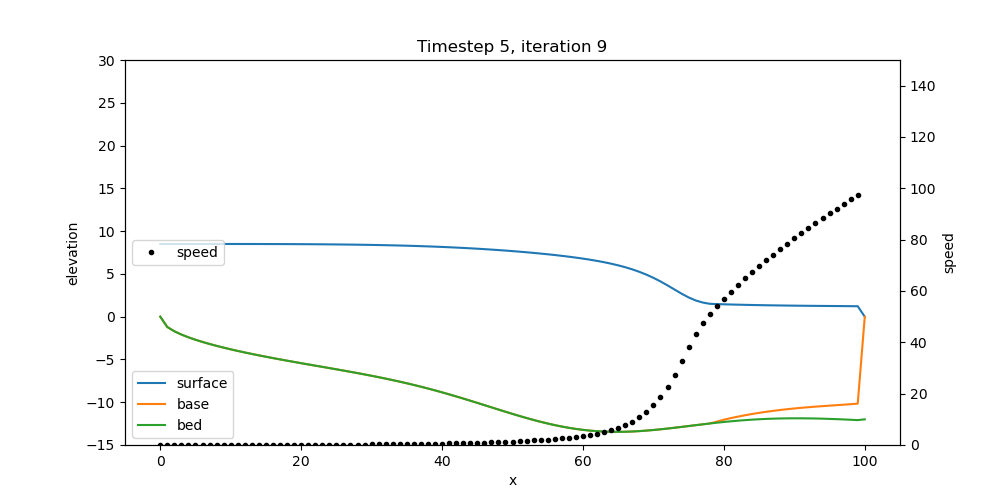
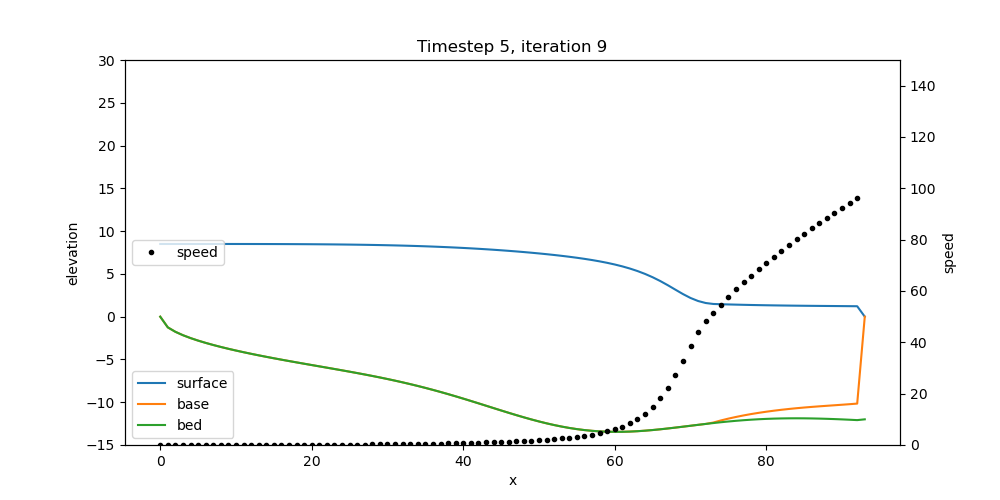
ditch commit

diff --git a/scratch_test/expt/sparse_implcit_coupled_test.py b/scratch_test/expt/sparse_implcit_coupled_test.py
@@ -31,7 +31,7 @@ import numpy as np
 import matplotlib.pyplot as plt
 import matplotlib.cm as cm
 
-np.set_printoptions(precision=1, suppress=False, linewidth=np.inf)
+np.set_printoptions(precision=1, suppress=False, linewidth=np.inf, threshold=np.inf)
 #formatter = {'float_kind': lambda x: f'{x:.2g}'}
 #np.set_printoptions(formatter=formatter, linewidth=np.inf)
 
@@ -290,9 +290,6 @@ def make_solver(u_trial, h_trial, dt, num_iterations, num_timesteps, intermediat
 
         vto = make_vto(mu)
 
-        #print(np.array(vto(u_trial, h_trial)))
-        #print(np.array(vto(u_trial, h_trial)).shape)
-
         #advo = make_advo_first_order_upwind(dt) #more stable under larger dt
         advo = make_advo_linear_differencing(dt) #more stable under larger dx
 
@@ -467,7 +464,7 @@ def sparse_linear_solve(values, coordinates, jac_shape, b, x0, mode="jax-native"
     return x, residual
 
 
-def make_solver_sparse_jvp(u_trial, h_trial, dt, num_iterations, num_timesteps, intermediates=False):
+def make_solver_sparse_jvp(u_trial, h_trial, dt, num_iterations, num_timesteps):
 
     def newton_solve(mu):
         hus = []
@@ -485,7 +482,8 @@ def make_solver_sparse_jvp(u_trial, h_trial, dt, num_iterations, num_timesteps, 
 
        
         #it seems like maybe jax vjp can't handle just single arguments, so
-        #we might have to aggregate teh stencils by operator (if ykwim..?)
+        #we might have to aggregate teh stencils (basis vectors) by operator
+        #(if ykwim..)
     
         bvs_vt, i_cs_dvt_du, j_cs_dvt_du = basis_vectors_etc(n, 1)
         _, i_cs_dvt_dh, j_cs_dvt_dh = basis_vectors_etc_nonsquare(n, n+1, 1)
@@ -497,7 +495,7 @@ def make_solver_sparse_jvp(u_trial, h_trial, dt, num_iterations, num_timesteps, 
 
         #The way that the basis vectors are found means that the case_ has to be the
         #same for the two versions for the advection equation for things to work
-        #even though, of course, the stencil for adv/u is different to that of adv/h.
+        #even though, of course, the best stencil for adv/u is different to that of adv/h.
 
 
         #bvs_gh, i_cs_gh, j_cs_gh = basis_vectors_etc(n+1, 5)
@@ -514,58 +512,38 @@ def make_solver_sparse_jvp(u_trial, h_trial, dt, num_iterations, num_timesteps, 
         is_dadv_dh = i_cs_dadv_dh.copy() + n
         js_dadv_dh = j_cs_dadv_dh.copy() + n
 
-        #print(is_dvt_du.shape)
-        #print(js_dvt_du.shape)
-        #print(is_dvt_dh.shape)
-        #print(js_dvt_dh.shape)
-        #print(is_dadv_du.shape)
-        #print(js_dadv_du.shape)
-        #print(is_dadv_dh.shape)
-        #print(js_dadv_dh.shape)
-        #raise
-
         for j in range(num_timesteps):
             print(j)
             for i in range(num_iterations):
                 
-                #TODO: work out wtf is going on here and everywhere...
-
+                #apply function taking operator and primals and evaluating the vjps associated
+                #with the basis vectors worked out above, corresponding to different stencils
+                #and shapes of operator matrix.
                 dvt_du_values, dvt_dh_values = sparse_jacrev_vt(vto, (u, h))
                 dadv_du_values, dadv_dh_values, dadv_dhold_values = sparse_jacrev_adv(advo, (u, h, h_old))
 
-                #print(dvt_du_values.shape)
-                #print(dvt_dh_values.shape)
-                #print(dadv_du_values.shape)
-                #print(dadv_dh_values.shape)
-                #print(dadv_dhold_values.shape)
-                #raise
 
+                #assemble large matrix in coo form.
                 all_values = jnp.concatenate((dvt_du_values, dvt_dh_values, dadv_du_values, dadv_dh_values))
                 all_is = jnp.concatenate((is_dvt_du, is_dvt_dh, is_dadv_du, is_dadv_dh))
                 all_js = jnp.concatenate((js_dvt_du, js_dvt_dh, js_dadv_du, js_dadv_dh))
                 all_coords = jnp.column_stack((all_is, all_js))
 
-                #print(all_values.shape)
-                #print(all_coords.shape)
+                #righ-hand side of the linear system
+                rhs = jnp.concatenate((-vto(u, h), -advo(u, h, h_old)))
+
+                ##For debugging:
+                dense_jac = scipy.sparse.coo_matrix((all_values, (all_coords[:,0], all_coords[:,1])), shape=(2*n + 1, 2*n + 1)).todense()
+                #print(dense_jac)
                 #raise
 
-                rhs = jnp.concatenate((-vto(u, h), -advo(u, h, h_old)))
-                #print(rhs)
-
-                #dvar = solve_petsc_sparse(all_values, all_coords, (2*n + 1, 2*n + 1), rhs)
-                dense_jac = scipy.sparse.coo_matrix((all_values, (all_coords[:,0], all_coords[:,1])), shape=(2*n + 1, 2*n + 1)).todense()
-
-                dvar = sparse_linear_solve(all_values, all_coords, (2*n + 1, 2*n + 1), rhs, jnp.zeros(2*n+1), mode="jax-native")[0]
-                print(dvar)
+                dvar = solve_petsc_sparse(all_values, all_coords, (2*n + 1, 2*n + 1), rhs)
+                #dvar = sparse_linear_solve(all_values, all_coords, (2*n + 1, 2*n + 1), rhs, jnp.zeros(2*n+1), mode="jax-native")[0]
+                #print(dvar)
 
                 u = u.at[:].set(u+dvar[:n])
                 h = h.at[:].set(h+dvar[n:])
 
-
-                # plt.plot(dvar[:n])
-                # plt.show()
-                # plt.plot(dvar[n:])
-                # plt.show()
 
 
             hus.append([h, u])
@@ -573,10 +551,6 @@ def make_solver_sparse_jvp(u_trial, h_trial, dt, num_iterations, num_timesteps, 
             plotboth(h, u, title="Timestep {}, iteration {}".format(j+1, i),\
                     savepath="../misc/full_implicit_tests/{}_{}.png".format(j+1,i),\
                     axis_limits = [[-15, 30],[0, 150]], show_plots=False)
-
-            # plotboth(h, u, title="Timestep {}, iteration {}".format(j+1, i),\
-            #          savepath=None,\
-            #          axis_limits = [[-15, 30],[0, 150]], show_plots=True)
 
             h_old = h.copy()
 
@@ -600,7 +574,7 @@ def make_solver_sparse_jvp(u_trial, h_trial, dt, num_iterations, num_timesteps, 
 
 
 lx = 1
-n = 100
+n = 93
 dx = lx/n
 x = jnp.linspace(0,lx,n)
 
@@ -707,7 +681,7 @@ h_trial = h.copy()
 #newton_solve = make_solver(u_trial, h_trial, 2e-4, 10, 20, intermediates=False)
 ##newton_solve = make_solver(u_trial, h_trial, 2e-3, 10, 20, intermediates=False)
 
-newton_solve = make_solver_sparse_jvp(u_trial, h_trial, 2e-4, 10, 20, intermediates=False)
+newton_solve = make_solver_sparse_jvp(u_trial, h_trial, 2e-4, 10, 20)
 
 
 

diff --git a/scratch_test/expt/implicit_coupled_test.py b/scratch_test/expt/implicit_coupled_test.py
@@ -365,7 +365,7 @@ def make_solver(u_trial, h_trial, dt, num_iterations, num_timesteps, intermediat
 
 
 lx = 1
-n = 10
+n = 8
 dx = lx/n
 x = jnp.linspace(0,lx,n)
 
